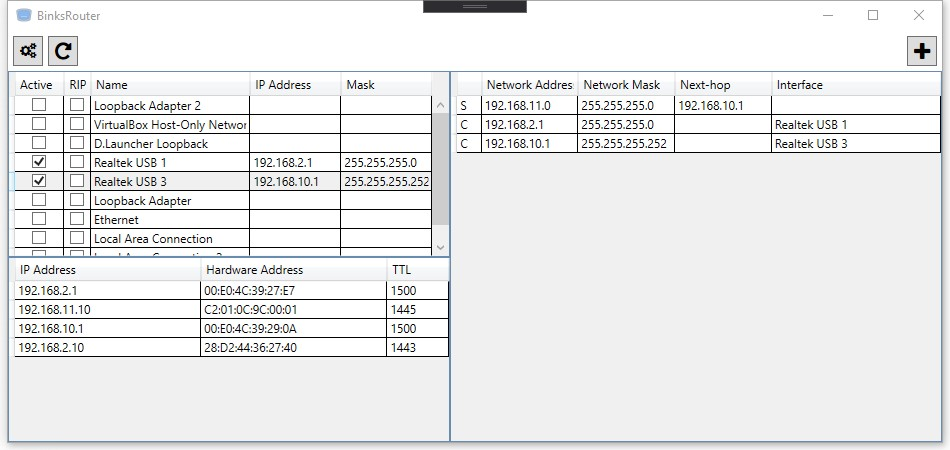
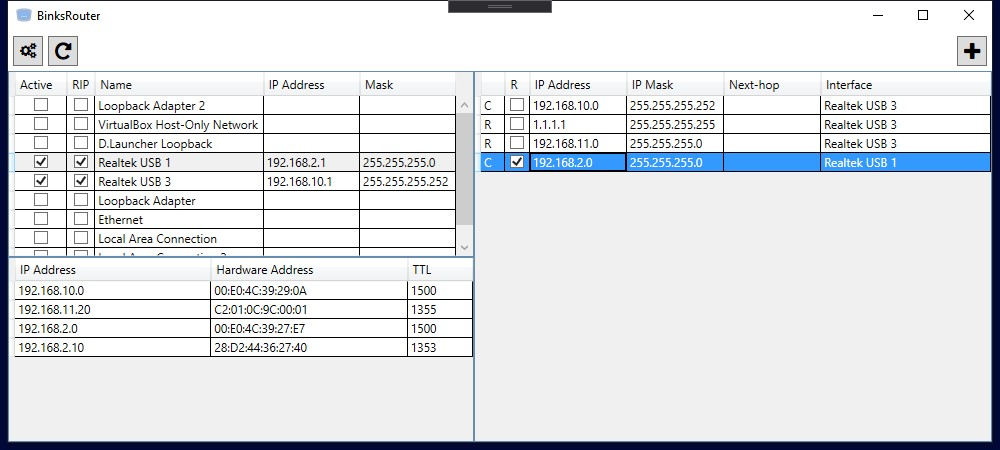
RipPacket factory 👩🏻💻

diff --git a/BinksRouter/UI/MainWindow.xaml b/BinksRouter/UI/MainWindow.xaml
@@ -10,7 +10,7 @@
         mc:Ignorable="d"
         Title="BinksRouter" 
         Height="450" 
-        Width="950"
+        Width="1000"
         WindowStartupLocation="CenterScreen"
         >
     <Grid>
@@ -142,8 +142,9 @@
 
                 <DataGrid.Columns>
                     <DataGridTextColumn Binding="{Binding Type, Converter={StaticResource EnumDescriptionConverter}}" Width="5*"/>
-                    <DataGridTextColumn Header="Network Address"  Binding="{Binding NetworkAddress}" Width="20*"/>
-                    <DataGridTextColumn Header="Network Mask"  Binding="{Binding NetworkMask}" Width="20*"/>
+                    <DataGridCheckBoxColumn Header="R" Binding="{Binding RipEnabled}" Width="5*"/>
+                    <DataGridTextColumn Header="IP Address"  Binding="{Binding NetworkAddress}" Width="20*"/>
+                    <DataGridTextColumn Header="IP Mask"  Binding="{Binding NetworkMask}" Width="20*"/>
                     <DataGridTextColumn Header="Next-hop"  Binding="{Binding NextHop}" Width="20*"/>
                     <DataGridTextColumn Header="Interface"  Binding="{Binding Interface.Name}" Width="35*"/>
                 </DataGrid.Columns>

diff --git a/BinksRouter/UI/RouteDetail.xaml b/BinksRouter/UI/RouteDetail.xaml
@@ -9,7 +9,7 @@
         Title="Route Detail" 
         ResizeMode="NoResize"
         WindowStartupLocation="CenterScreen"
-        Height="500" 
+        Height="520" 
         Width="300">
     <Grid>
         <Grid.RowDefinitions>
@@ -44,6 +44,14 @@
 
             <TextBlock Padding="5">Origin</TextBlock>
             <TextBox Name="OriginBox" Padding="5" Margin="0,0,0,5" IsEnabled="False" IsReadOnly="True"/>
+
+            <CheckBox
+                Name="RipEnabledBox"
+                Margin="0,0,0,10"
+                IsThreeState="False"
+            >
+                RIP
+            </CheckBox>
         </StackPanel>
 
         <StackPanel Grid.Row="1" Orientation="Horizontal" HorizontalAlignment="Right" Margin="5">

diff --git a/BinksRouter/Network/Entities/RipPacket.cs b/BinksRouter/Network/Entities/RipPacket.cs
@@ -1,8 +1,11 @@
 using System;
 using System.Collections.Generic;
+using System.IO;
 using System.Linq;
 using System.Net;
+using System.Net.NetworkInformation;
 using BinksRouter.Extensions;
+using PacketDotNet;
 
 namespace BinksRouter.Network.Entities
 {
@@ -32,9 +35,38 @@ namespace BinksRouter.Network.Entities
                 Metric = BitConverter.ToUInt32(payload.Skip(16).Take(4).Reverse().ToArray(), 0);
             }
 
+            public RipRecord(Route route)
+            {
+                IpAddress = route.NetworkAddress;
+                Mask = route.NetworkMask;
+                NextHop = route.NextHop;
+                Metric = 1;
+            }
+
             public override string ToString()
             {
                 return $"{IpAddress}/{Mask.ToShortMask()} -> {NextHop} ({Metric})";
+            }
+
+            public byte[] ToBytes()
+            {
+                var stream = new MemoryStream();
+                var writer = new BinaryWriter(stream);
+
+                // Address family
+                writer.Write((byte) 0x0);
+                writer.Write((byte) 0x2);
+
+                // Route Tag
+                writer.Write((byte) 0x0);
+                writer.Write((byte) 0x0);
+
+                writer.Write(IpAddress.GetAddressBytes());
+                writer.Write(Mask.GetAddressBytes());
+                writer.Write(NextHop?.GetAddressBytes() ?? new byte[]{0x0, 0x0, 0x0, 0x0});
+                writer.Write(BitConverter.GetBytes(Metric).Reverse().ToArray());
+
+                return stream.ToArray();
             }
         }
         #endregion
@@ -56,6 +88,59 @@ namespace BinksRouter.Network.Entities
                 ));
                 current += 20;
             }
+        }
+
+        public RipPacket(RipCommand command)
+        {
+            Version = (char) 2;
+            Command = command;
+        }
+
+        public byte[] ToBytes()
+        {
+            var stream = new MemoryStream();
+            var writer = new BinaryWriter(stream);
+
+            writer.Write((byte) Command);
+            writer.Write(Version);
+            
+            writer.Write((byte) 0x0);
+            writer.Write((byte) 0x0);
+
+            foreach (var record in Records)
+            {
+                writer.Write(record.ToBytes());
+            }
+
+            return stream.ToArray();
+        }
+
+        public static implicit operator UdpPacket(RipPacket ripPacket)
+        {
+            var udpPacket = new UdpPacket(42042, 520)
+            {
+                PayloadData = ripPacket.ToBytes()
+            };
+
+            return udpPacket;
+        }
+    }
+
+    public class RipPacketFactory
+    {
+        public static EthernetPacket CreateEthernetPacket(Interface sourceInterface, RipPacket ripPacket)
+        {
+            var ipPacket = new IPv4Packet(sourceInterface.NetworkAddress, IPAddress.Parse("224.0.0.9"))
+            {
+                PayloadPacket = ripPacket
+            };
+            ipPacket.UpdateIPChecksum();
+
+            return new EthernetPacket(sourceInterface.MacAddress, PhysicalAddress.Parse("C2-01-0C-9C-00-01"),
+                EthernetType.IPv4)
+            {
+                PayloadPacket = ipPacket
+            };
         }
     }
 }

diff --git a/BinksRouter/Network/NetworkRouter.cs b/BinksRouter/Network/NetworkRouter.cs
@@ -5,6 +5,7 @@ using System.Linq;
 using System.Net.NetworkInformation;
 using System.Timers;
 using System.Windows;
+using BinksRouter.Extensions;
 using BinksRouter.Network.Entities;
 using BinksRouter.Network.Protocols;
 using PacketDotNet;
@@ -21,6 +22,7 @@ namespace BinksRouter.Network
         private static App CurrentApp => (App)Application.Current;
 
         private readonly Timer _clock = new Timer(Properties.Settings.Default.ClockRate);
+        private readonly RipThread _rip;
 
         public NetworkRouter()
         {
@@ -39,6 +41,9 @@ namespace BinksRouter.Network
             _clock.Elapsed += ClockTickEvent;
             _clock.Elapsed += ArpTable.ClockTickEvent;
             _clock.Start();
+
+            _rip = new RipThread(this);
+            _rip.Start();
         }
 
         private void PacketArrival(object sender, EthernetPacket eth)
@@ -70,6 +75,7 @@ namespace BinksRouter.Network
         public void Stop()
         {
             _clock.Stop();
+            _rip.Stop();
 
             foreach (var device in Interfaces)
             {
@@ -103,7 +109,7 @@ namespace BinksRouter.Network
                     var route = new Route(Route.RouteType.Connected)
                     {
                         Interface = myInterface,
-                        NetworkAddress = myInterface.NetworkAddress,
+                        NetworkAddress = myInterface.NetworkAddress.GetNetworkAddress(myInterface.NetworkMask),
                         NetworkMask = myInterface.NetworkMask
                     };
                     
@@ -113,7 +119,6 @@ namespace BinksRouter.Network
                     {
                         ArpTable[route.NetworkAddress] = new ArpRecord(route.NetworkAddress, myInterface.MacAddress, true);
                     }
-
 
                     RouterChange?.Invoke(this, null);
                 }

diff --git a/BinksRouter/Network/RipThread.cs b/BinksRouter/Network/RipThread.cs
@@ -1,0 +1,56 @@
+using System;
+using System.Collections.Generic;
+using System.Linq;
+using System.Net;
+using System.Net.NetworkInformation;
+using System.Text;
+using System.Threading;
+using System.Threading.Tasks;
+using BinksRouter.Network.Entities;
+using PacketDotNet;
+
+namespace BinksRouter.Network
+{
+    public class RipThread
+    {
+        private readonly Thread _thread;
+        private readonly NetworkRouter _router;
+        private bool _isRunning = false;
+
+
+        // Thread methods / properties
+        public void Start()
+        {
+            _isRunning = true;
+            _thread.Start();
+        }
+
+        public void Stop()
+        {
+            _isRunning = false;
+            Join();
+        }
+
+        public void Join() => _thread.Join();
+        public bool IsAlive => _thread.IsAlive;
+
+        public RipThread(NetworkRouter router)
+        {
+            _router = router;
+            _thread = new Thread(_run);
+        }
+
+        private void _run()
+        {
+            while (_isRunning)
+            {
+                foreach (var @interface in _router.Interfaces.Where(item => (item.RipEnabled)))
+                {
+                    @interface.Send(RipPacketFactory.CreateEthernetPacket(@interface, _router.Routes.ToPacket()));
+                }
+                Console.WriteLine("Fuck you! With opened eyes!");
+                Thread.Sleep(5000);
+            }
+        }
+    }
+}

diff --git a/BinksRouter/Network/Entities/Route.cs b/BinksRouter/Network/Entities/Route.cs
@@ -32,6 +32,7 @@ namespace BinksRouter.Network.Entities
         private IPAddress _networkMask;
         [CanBeNull] private IPAddress _nextHop;
         [CanBeNull] private Interface _interface;
+        private bool _ripEnabled = false;
 
         #endregion
 
@@ -85,6 +86,16 @@ namespace BinksRouter.Network.Entities
             }
         }
 
+        public bool RipEnabled
+        {
+            get => _ripEnabled;
+            set
+            {
+                _ripEnabled = value;
+                NotifyPropertyChanged(nameof(RipEnabled));
+            }
+        }
+
         public readonly uint Metric;
         [CanBeNull] public readonly Interface Origin;
 
@@ -122,7 +133,7 @@ namespace BinksRouter.Network.Entities
             PropertyChanged?.Invoke(this, new PropertyChangedEventArgs(propertyName));
         }
 
-        public override bool Equals(Object obj)
+        public override bool Equals(object obj)
         {
             if ((obj == null) || GetType() != obj.GetType())
             {
@@ -135,7 +146,7 @@ namespace BinksRouter.Network.Entities
 
         public override int GetHashCode()
         {
-            var hash = $"{NetworkAddress.ToInt()}:{NetworkMask.ToInt()}:{NextHop.ToInt()}:{Interface.Name}";
+            var hash = $"{NetworkAddress.ToInt()}:{NetworkMask.ToInt()}:{NextHop.ToInt()}:{Interface?.Name ?? ""}";
             return hash.GetHashCode();
         }
     }

diff --git a/BinksRouter/Extensions/IPAddressExtensions.cs b/BinksRouter/Extensions/IPAddressExtensions.cs
@@ -24,5 +24,23 @@ namespace BinksRouter.Extensions
             var inverse = ipAddress.ToInt() & uint.MaxValue;
             return (int) Math.Log(inverse, 2) + 1;
         }
+
+        public static IPAddress GetNetworkAddress(this IPAddress address, IPAddress subnetMask)
+        {
+            var ipAddressBytes = address.GetAddressBytes();
+            var subnetMaskBytes = subnetMask.GetAddressBytes();
+
+            if (ipAddressBytes.Length != subnetMaskBytes.Length)
+                throw new ArgumentException("Lengths of IP address and subnet mask do not match.");
+
+            var networkAddress = new byte[ipAddressBytes.Length];
+            
+            for (var i = 0; i < networkAddress.Length; i++)
+            {
+                networkAddress[i] = (byte)(ipAddressBytes[i] & (subnetMaskBytes[i]));
+            }
+            
+            return new IPAddress(networkAddress);
+        }
     }
 }

diff --git a/BinksRouter/UI/RouteDetail.xaml.cs b/BinksRouter/UI/RouteDetail.xaml.cs
@@ -24,6 +24,7 @@ namespace BinksRouter.UI
             if (route.NextHop != null) NextHopBox.Text = route.NextHop.ToString();
             MetricBox.Text = route.Metric.ToString();
             if (route.Origin != null) OriginBox.Text = route.Origin.ToString();
+            RipEnabledBox.IsChecked = route.RipEnabled;
 
             InterfaceComboBox.ItemsSource = CurrentApp.RouterInstance.Interfaces.Where(item => item.IsActive);
             InterfaceComboBox.SelectedValue = route.Interface;
@@ -60,6 +61,7 @@ namespace BinksRouter.UI
             }
             
             _route.Interface = (Interface) InterfaceComboBox.SelectedValue;
+            _route.RipEnabled = RipEnabledBox.IsChecked ?? false;
 
             Close();
         }

diff --git a/BinksRouter/Network/Entities/Interface.cs b/BinksRouter/Network/Entities/Interface.cs
@@ -41,7 +41,7 @@ namespace BinksRouter.Network.Entities
                 if (!_isActive && value)
                 {
                     _captureDevice.OnPacketArrival += PacketArrival;
-                    _captureDevice.Open(OpenFlags.Promiscuous, 10);
+                    _captureDevice.Open(OpenFlags.Promiscuous | OpenFlags.NoCaptureLocal, 10);
                     _captureDevice.StartCapture();
                 }
                 else if (_isActive && !value)

diff --git a/BinksRouter/Network/RoutingTable.cs b/BinksRouter/Network/RoutingTable.cs
@@ -83,5 +83,17 @@ namespace BinksRouter.Network
                 return result;
             }
         }
+
+        public RipPacket ToPacket()
+        {
+            var packet = new RipPacket(RipPacket.RipCommand.Response);
+
+            foreach (var route in this.Where(item => (item.RipEnabled)))
+            {
+                packet.Records.Add(new RipPacket.RipRecord(route));
+            }
+
+            return packet;
+        }
     }
 }
